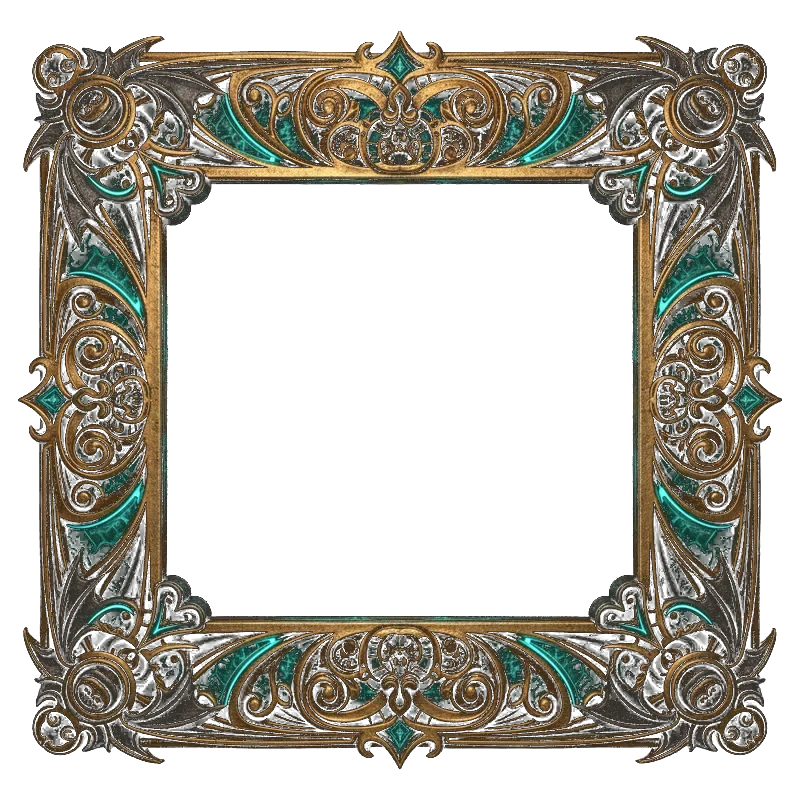
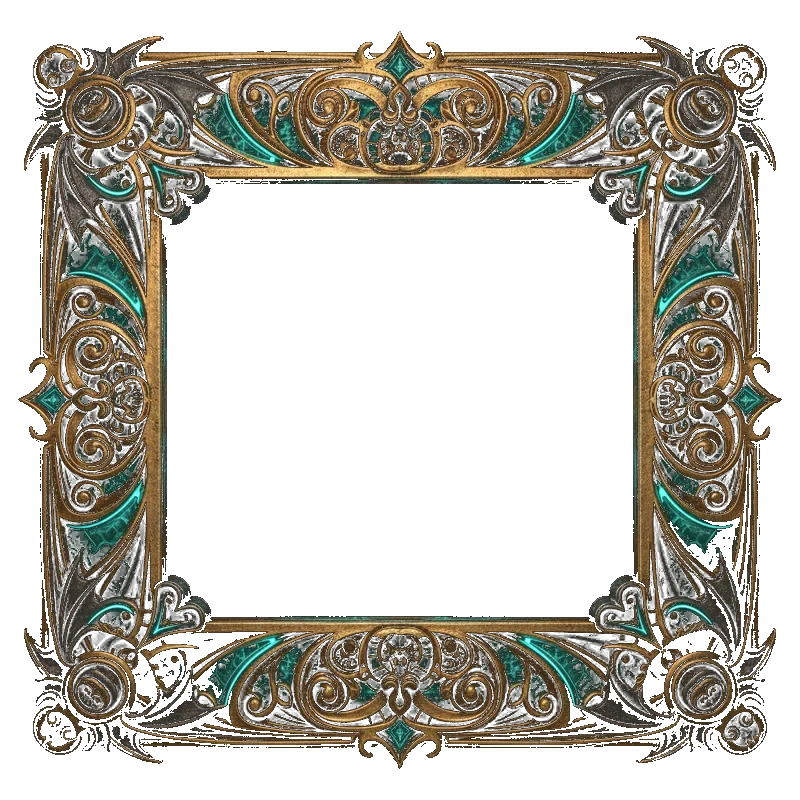
Fix board frame occlusion and make Buy Bonus/HUD labels more prominent
- BoardFrame: the transparent inner window of frame.webp is much
  smaller than assumed, so the border was covering the outer ring of
  symbols; measured it properly and rescaled, plus draw the frame
  behind the board so symbols are never occluded regardless.
- Redo the art cutout with a flood-fill from each image's background
  instead of a flat luminance threshold -- the old version left a
  semi-opaque haze near the frame's border (from its own ambient-
  occlusion vignette) that visibly darkened the board through it.
- Buy Bonus button: bigger, gold/amber instead of the same gray as
  every other HUD button, so it's no longer easy to miss.
- Balance/Win/Bet labels: bigger and given more clearance from the
  button row below (LayoutDesktop only -- shipped as vendor_overrides/
  since these touch the shared components-ui-pixi package, not
  something apps/void-chronos can override on its own).

diff --git a/stake_engine/web_frontend/void-chronos/vendor_overrides/components-ui-pixi/src/components/LayoutDesktop.svelte b/stake_engine/web_frontend/void-chronos/vendor_overrides/components-ui-pixi/src/components/LayoutDesktop.svelte
@@ -1,0 +1,117 @@
+<script lang="ts">
+	import { stateUi } from 'state-shared';
+	import { BLACK } from 'constants-shared/colors';
+	import { MainContainer } from 'components-layout';
+	import { Container, Rectangle, anchorToPivot } from 'pixi-svelte';
+
+	import { DESKTOP_BASE_SIZE, DESKTOP_BACKGROUND_WIDTH_LIST } from '../constants';
+	import { getContext } from '../context';
+	import type { LayoutUiProps } from '../types';
+
+	const props: LayoutUiProps = $props();
+	const context = getContext();
+</script>
+
+<Container x={20}>
+	{@render props.gameName()}
+</Container>
+
+<Container x={context.stateLayoutDerived.canvasSizes().width - 20}>
+	{@render props.logo()}
+</Container>
+
+<MainContainer standard alignVertical="bottom">
+	<Container
+		x={context.stateLayoutDerived.mainLayoutStandard().width * 0.5}
+		y={context.stateLayoutDerived.mainLayoutStandard().height - DESKTOP_BASE_SIZE - 10}
+		pivot={anchorToPivot({
+			anchor: { x: 0.5, y: 0 },
+			sizes: {
+				height: DESKTOP_BASE_SIZE,
+				width: DESKTOP_BACKGROUND_WIDTH_LIST.reduce((sum, width) => sum + width, 0),
+			},
+		})}
+	>
+		<Container y={DESKTOP_BASE_SIZE * 0.5 - 185} x={900 - 500} scale={1.05}>
+			{@render props.amountBalance({ stacked: true })}
+		</Container>
+
+		<Container y={DESKTOP_BASE_SIZE * 0.5 - 185} x={900} scale={1.05}>
+			{@render props.amountWin({ stacked: true })}
+		</Container>
+
+		<Container y={DESKTOP_BASE_SIZE * 0.5 - 185} x={900 + 500} scale={1.05}>
+			{@render props.amountBet({ stacked: true })}
+		</Container>
+
+		<Container y={DESKTOP_BASE_SIZE * 0.5} x={220} scale={0.8}>
+			{@render props.buttonMenu({ anchor: 0.5 })}
+		</Container>
+
+		<Container y={DESKTOP_BASE_SIZE * 0.5} x={220 + 150} scale={0.8}>
+			{@render props.buttonBuyBonus({ anchor: 0.5 })}
+		</Container>
+
+		<Container y={DESKTOP_BASE_SIZE * 0.5} x={160 + 150 * 4} scale={0.8}>
+			{@render props.buttonAutoSpin({ anchor: 0.5 })}
+		</Container>
+
+		<Container y={DESKTOP_BASE_SIZE * 0.5} x={160 + 150 * 5} scale={0.8}>
+			{@render props.buttonBet({ anchor: 0.5 })}
+		</Container>
+
+		<Container y={DESKTOP_BASE_SIZE * 0.5} x={160 + 150 * 6} scale={0.8}>
+			{@render props.buttonTurbo({ anchor: 0.5 })}
+		</Container>
+
+		<Container y={DESKTOP_BASE_SIZE * 0.5} x={1440} scale={0.8}>
+			{@render props.buttonDecrease({ anchor: 0.5 })}
+		</Container>
+
+		<Container y={DESKTOP_BASE_SIZE * 0.5} x={1440 + 150} scale={0.8}>
+			{@render props.buttonIncrease({ anchor: 0.5 })}
+		</Container>
+	</Container>
+</MainContainer>
+
+{#if stateUi.menuOpen}
+	<Rectangle
+		eventMode="static"
+		cursor="pointer"
+		alpha={0.5}
+		anchor={0.5}
+		backgroundColor={BLACK}
+		width={context.stateLayoutDerived.canvasSizes().width}
+		height={context.stateLayoutDerived.canvasSizes().height}
+		x={context.stateLayoutDerived.canvasSizes().width * 0.5}
+		y={context.stateLayoutDerived.canvasSizes().height * 0.5}
+		onpointerup={() => (stateUi.menuOpen = false)}
+	/>
+
+	<MainContainer standard alignVertical="bottom">
+		<Container
+			x={298}
+			y={context.stateLayoutDerived.mainLayoutStandard().height - DESKTOP_BASE_SIZE - 10}
+		>
+			<Container scale={0.8} y={DESKTOP_BASE_SIZE * 0.5 - 150 - 170 * 3}>
+				{@render props.buttonPayTable({ anchor: 0.5 })}
+			</Container>
+
+			<Container scale={0.8} y={DESKTOP_BASE_SIZE * 0.5 - 150 - 170 * 2}>
+				{@render props.buttonGameRules({ anchor: 0.5 })}
+			</Container>
+
+			<Container scale={0.8} y={DESKTOP_BASE_SIZE * 0.5 - 150 - 170 * 1}>
+				{@render props.buttonSettings({ anchor: 0.5 })}
+			</Container>
+
+			<Container scale={0.8} y={DESKTOP_BASE_SIZE * 0.5 - 150}>
+				{@render props.buttonSoundSwitch({ anchor: 0.5 })}
+			</Container>
+
+			<Container scale={0.8} y={DESKTOP_BASE_SIZE * 0.5}>
+				{@render props.buttonMenuClose({ anchor: 0.5 })}
+			</Container>
+		</Container>
+	</MainContainer>
+{/if}

diff --git a/stake_engine/web_frontend/void-chronos/vendor_overrides/components-ui-pixi/src/components/ButtonBuyBonus.svelte b/stake_engine/web_frontend/void-chronos/vendor_overrides/components-ui-pixi/src/components/ButtonBuyBonus.svelte
@@ -1,0 +1,78 @@
+<script lang="ts">
+	import { Text } from 'pixi-svelte';
+	import { Button, type ButtonProps } from 'components-pixi';
+	import { stateModal, stateBet, stateBetDerived } from 'state-shared';
+
+	import UiSprite from './UiSprite.svelte';
+	import { UI_BASE_FONT_SIZE, UI_BASE_SIZE } from '../constants';
+	import { getContext } from '../context';
+	import { i18nDerived } from '../i18n/i18nDerived';
+
+	const props: Partial<Omit<ButtonProps, 'children'>> = $props();
+	const { stateXstateDerived, eventEmitter } = getContext();
+	const sizes = { width: UI_BASE_SIZE * 1.15, height: UI_BASE_SIZE * 1.15 };
+	const disabled = $derived(!stateXstateDerived.isIdle());
+	const active = $derived(stateBetDerived.activeBetMode()?.type === 'activate');
+
+	const openModal = () => (stateModal.modal = { name: 'buyBonus' });
+	const disableActiveBetMode = () => (stateBet.activeBetModeKey = 'BASE');
+	const onpress = () => {
+		eventEmitter.broadcast({ type: 'soundPressGeneral' });
+
+		if (active) {
+			disableActiveBetMode();
+		} else {
+			openModal();
+		}
+	};
+
+	const getState = (value: {
+		active: boolean;
+		disabled: boolean;
+		hovered: boolean;
+		pressed: boolean;
+	}) => {
+		if (value.disabled) return 'disabled' as const;
+		if (value.pressed) return 'pressed' as const;
+		if (value.hovered) return 'hovered' as const;
+		if (value.active) return 'active' as const;
+		return 'default' as const;
+	};
+</script>
+
+<Button {...props} {sizes} {disabled} {onpress}>
+	{#snippet children({ center, hovered, pressed })}
+		{@const state = getState({
+			active,
+			disabled,
+			hovered,
+			pressed,
+		})}
+
+		<UiSprite
+			key="buyBonus"
+			{...center}
+			anchor={0.5}
+			width={sizes.width}
+			height={sizes.height}
+			backgroundColor={disabled ? 0xaaaaaa : 0xe0a736}
+			borderWidth={active ? 10 : 5}
+			borderColor={active ? 0xffffff : 0xffe9a8}
+		/>
+
+		<Text
+			{...center}
+			anchor={0.5}
+			text={state === 'active' ? i18nDerived.disable() : i18nDerived.buyBonus()}
+			style={{
+				align: 'center',
+				wordWrap: true,
+				wordWrapWidth: 200,
+				fontFamily: 'proxima-nova',
+				fontWeight: '800',
+				fontSize: UI_BASE_FONT_SIZE,
+				fill: disabled ? 0x555555 : 0x2a1600,
+			}}
+		/>
+	{/snippet}
+</Button>

diff --git a/stake_engine/web_frontend/void-chronos/src/components/BoardFrame.svelte b/stake_engine/web_frontend/void-chronos/src/components/BoardFrame.svelte
@@ -11,7 +11,10 @@
 
 	const context = getContext();
 	const SPINE_SCALE = { width: 0.59, height: 0.62 };
-	const SPRITE_SCALE = { width: 1.15, height: 1.15 };
+	// vcFrame.webp's opening (the transparent inner window) is only ~58% of its width
+	// and ~54% of its height -- these scale the whole sprite up so that window fully
+	// contains the board, with a bit of margin. Re-measure if the frame art changes.
+	const SPRITE_SCALE = { width: 1.85, height: 2.0 };
 	const POSITION_ADJUSTMENT = 1.01;
 
 	type AnimationName = 'reelhouse_glow_start' | 'reelhouse_glow_idle' | 'reelhouse_glow_exit';
@@ -69,5 +72,5 @@
 	y={context.stateGameDerived.boardLayout().y * POSITION_ADJUSTMENT}
 	width={context.stateGameDerived.boardLayout().width * SPRITE_SCALE.width}
 	height={context.stateGameDerived.boardLayout().height * SPRITE_SCALE.height}
-	zIndex={2}
+	zIndex={-1}
 />

diff --git a/stake_engine/README.md b/stake_engine/README.md
@@ -100,10 +100,15 @@ their `apps/scatter` template) and wired up to VOID CHRONOS's own mechanics:
   rest just needs more generated images dropped into `generatedArt/` and registered
   the same way).
 - `src/components/BoardFrame.svelte` — uses the real `frame.webp` art instead of the
-  template's placeholder frame sprite, and sizes it off the board's actual width
-  **and** height independently (the stock template's frame math assumed a
-  wider-than-tall board; VOID CHRONOS's 5-reel x 6-row board is taller than wide,
-  which cropped the top/bottom rows until this fix).
+  template's placeholder frame sprite. Sized off the board's actual width **and**
+  height independently (the stock template's frame math assumed a wider-than-tall
+  board; VOID CHRONOS's 5-reel x 6-row board is taller than wide, which cropped the
+  top/bottom rows until this fix), and further tuned because `frame.webp`'s
+  transparent inner window is only ~58%/~54% of the source image's width/height —
+  `SPRITE_SCALE` accounts for that so the board actually fits inside the opening
+  instead of being covered by the border art. Also drawn at `zIndex={-1}` (behind
+  the board) rather than in front of it, so symbols are always fully visible even if
+  that measurement is slightly off for a future frame image.
 - `src/components/Background.svelte` — replaced the template's spine cave/dust
   background animation with the real `background.webp` tileable starfield art.
 - `src/components/LoadingScreen.svelte` — shows the real `logo.webp` in place of the
@@ -112,11 +117,22 @@ their `apps/scatter` template) and wired up to VOID CHRONOS's own mechanics:
   frame, background, and 6 symbol icons, plus `portal_big.webp` — a large winged
   hourglass/portal feature-art piece not wired into any component yet, a good
   candidate for the free-spin trigger celebration screen). The symbol/frame images
-  were run through a simple chroma-key cutout (sampling each image's own corner
-  pixels as the background color to key out, since the AI generator exports flat
-  RGB with no alpha channel) to get a usable transparent version — without this
-  they render as opaque squares that block the board/other art behind them.
-  `logo.webp` and `background.webp` are left as opaque full-bleed images on purpose.
+  have no alpha channel out of the generator, so they're run through a cutout pass
+  that samples each image's own background color and flood-fills outward from the
+  image's corners and center to find the true background region (a plain per-pixel
+  luminance threshold left a semi-opaque haze near the border from the art's own
+  ambient-occlusion vignette, which visibly darkened the board through the frame
+  until this was tightened). `logo.webp` and `background.webp` are left as opaque
+  full-bleed images on purpose.
+- `vendor_overrides/components-ui-pixi/` — two files from web-sdk's **shared**
+  `packages/components-ui-pixi` (used by every game in the monorepo, not something
+  this app folder can override on its own): `ButtonBuyBonus.svelte` (bigger, gold/
+  amber styling so it actually stands out from the other gray HUD buttons — it
+  previously used the exact same neutral gray as Menu/Autospin/Turbo) and
+  `LayoutDesktop.svelte` (bumped the Balance/Win/Bet labels' scale and gave them a
+  bit more vertical clearance from the button row below). See "How to run it" for
+  where these go — they're not part of `apps/void-chronos` itself and won't do
+  anything sitting in this folder.
 
 ### How to run it
 
@@ -136,6 +152,12 @@ cp -r /path/to/this/TG/stake_engine/web_frontend/void-chronos apps/void-chronos
 # template's other components still use) needs to come from an existing app's
 # static folder -- copy it in WITHOUT clobbering generatedArt/:
 cp -rn apps/scatter/static/* apps/void-chronos/static/
+
+# overlay the two shared-package tweaks (bigger/gold Buy Bonus button, bigger
+# Balance/Win/Bet labels) -- these touch packages/components-ui-pixi, which every
+# game shares, so they can't live inside apps/void-chronos itself:
+cp apps/void-chronos/vendor_overrides/components-ui-pixi/src/components/*.svelte \
+   packages/components-ui-pixi/src/components/
 
 npx turbo run build --filter=void-chronos...   # builds workspace deps + the app
 npx turbo run dev --filter=void-chronos          # or: cd apps/void-chronos && vite dev --port 3011
@@ -162,6 +184,14 @@ register them in `SymbolGraphic.svelte`'s `SYMBOL_ART_KEY` map + `assets.ts` to
 finish full coverage. `portal_big.webp` (the winged hourglass artifact) is generated
 but not placed yet — a natural fit for the free-spin trigger celebration screen
 (`FreeSpinIntro.svelte`).
+
+The `ButtonBuyBonus`/`LayoutDesktop` HUD tweaks (see `vendor_overrides/` above) were
+verified against `LayoutDesktop` only, which is what a normal wide desktop browser
+window renders. `LayoutPortrait`/`LayoutLandscape`/`LayoutTablet` (mobile/narrow
+viewports) still use the stock template's sizing/spacing for the Balance/Win/Bet
+labels and Buy Bonus button — same idea (bump the label `scale`, give Buy Bonus its
+own color instead of matching Menu/Autospin/Turbo) needs repeating there, each file
+has its own hardcoded pixel positions so it isn't a shared fix.
 
 **Not done:** sound design (reuses the template's placeholder SFX), win/tumble/
 free-spin celebration screens still use the template's stock spine animations
